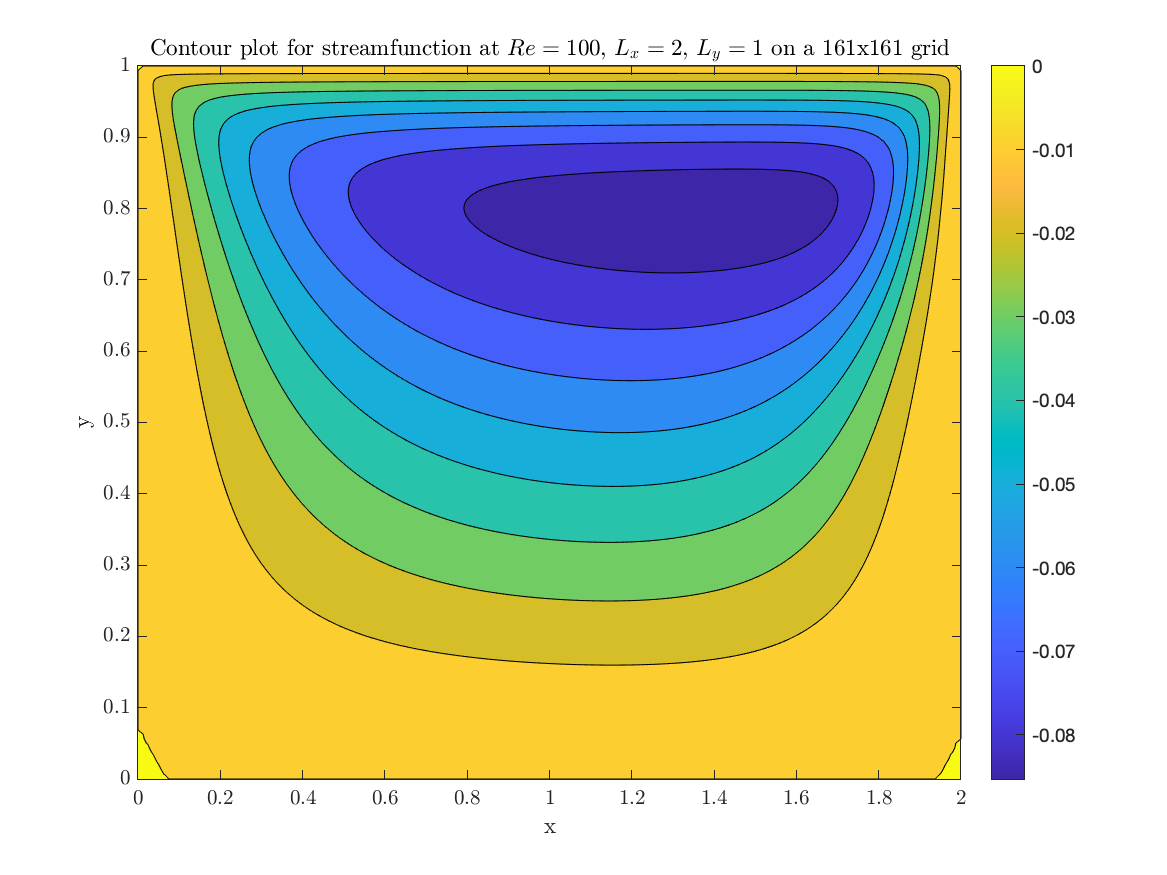
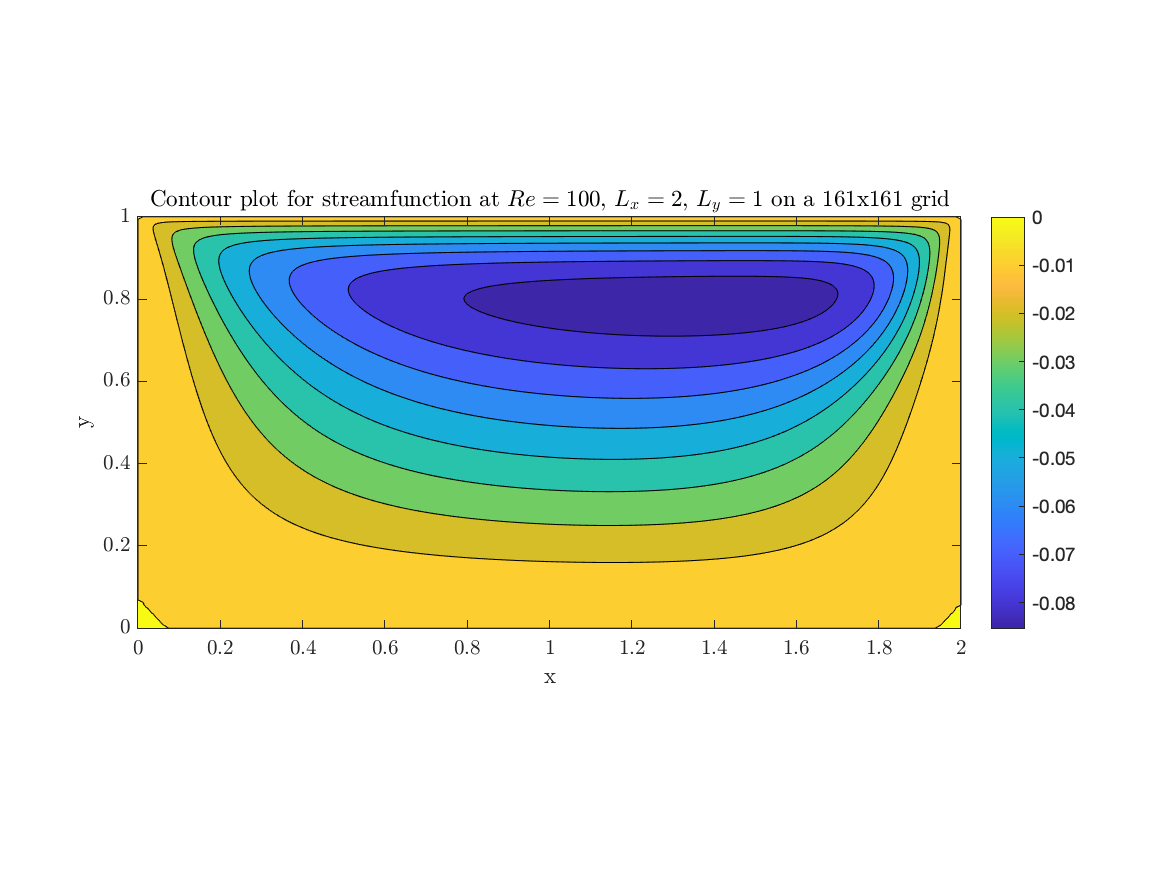
editted plots to scale

diff --git a/GeneratePlots.m b/GeneratePlots.m
@@ -86,6 +86,14 @@ for i=1:length(filenames)
     
     xmin(i) = xcoord(s==min(s,[],'all'));
     ymin(i) = ycoord(s==min(s,[],'all'));
+    
+    
+    splot = str2num("24" + (i*2));
+    wplot = str2num("24" + (i*2-1));
+    figure(10)
+    hold on
+    subplot(splot), contour(((s))), axis('square'), title("streamfunction @"+plotlabel);
+    subplot(wplot), contour(((w))), axis('square'), title("vorticity @"+plotlabel);    
 end
 
 figure(1)
@@ -152,6 +160,7 @@ for i=1:length(filenames2)
 
     figure(5+i)
     contourf(xcoord,ycoord,s);
+    daspect([1 1 1])
 end
 
 figure(6)
@@ -167,3 +176,8 @@ xlabel("x");
 ylabel("y");
 colorbar("eastoutside");
 saveas(gcf,'Images/lx2ly1.png');
+
+disp('x location of min');
+disp(xmin');
+disp('y location of min');
+disp(ymin');

diff --git a/LidDrivenCavity.cpp b/LidDrivenCavity.cpp
@@ -405,7 +405,7 @@ void LidDrivenCavity::Integrate()
 void LidDrivenCavity::GeneratePlotData()
 {
     if (MPIRank==0) {
-        string filename = to_string((int)Lx) + "_" + to_string((int)Ly) + "_" + to_string(Nx) + "_" + to_string(Ny) + "_" + to_string((int)Re) + "_data.txt";
+        string filename = "Data/" +  to_string((int)Lx) + "_" + to_string((int)Ly) + "_" + to_string(Nx) + "_" + to_string(Ny) + "_" + to_string((int)Re) + "_data.txt";
         ofstream outputfile(filename, ios::out | ios::trunc);
         if (outputfile.is_open()) {
             // Output the initial parameters

diff --git a/MatlabTest/LidDrivenCavitySolver7.m b/MatlabTest/LidDrivenCavitySolver7.m
@@ -4,7 +4,7 @@ clear;
 Lx = 1;
 Ly = 2;
 Nx = 5;
-Ny = 5;
+Ny = 7;
 dt = 0.0001;
 % dt = 0.01;
 T = 1.0;
@@ -70,7 +70,7 @@ while totalT < T
     w(1,1) = 0;
     w(Ny,1) = 0;
     w(Ny,Nx) = 0;
-    w(1,Ny) = 0;
+    w(1,Nx) = 0;
     
     % ##################### calculating interior vorticity at t+dt ##################### 
     % iteratively
